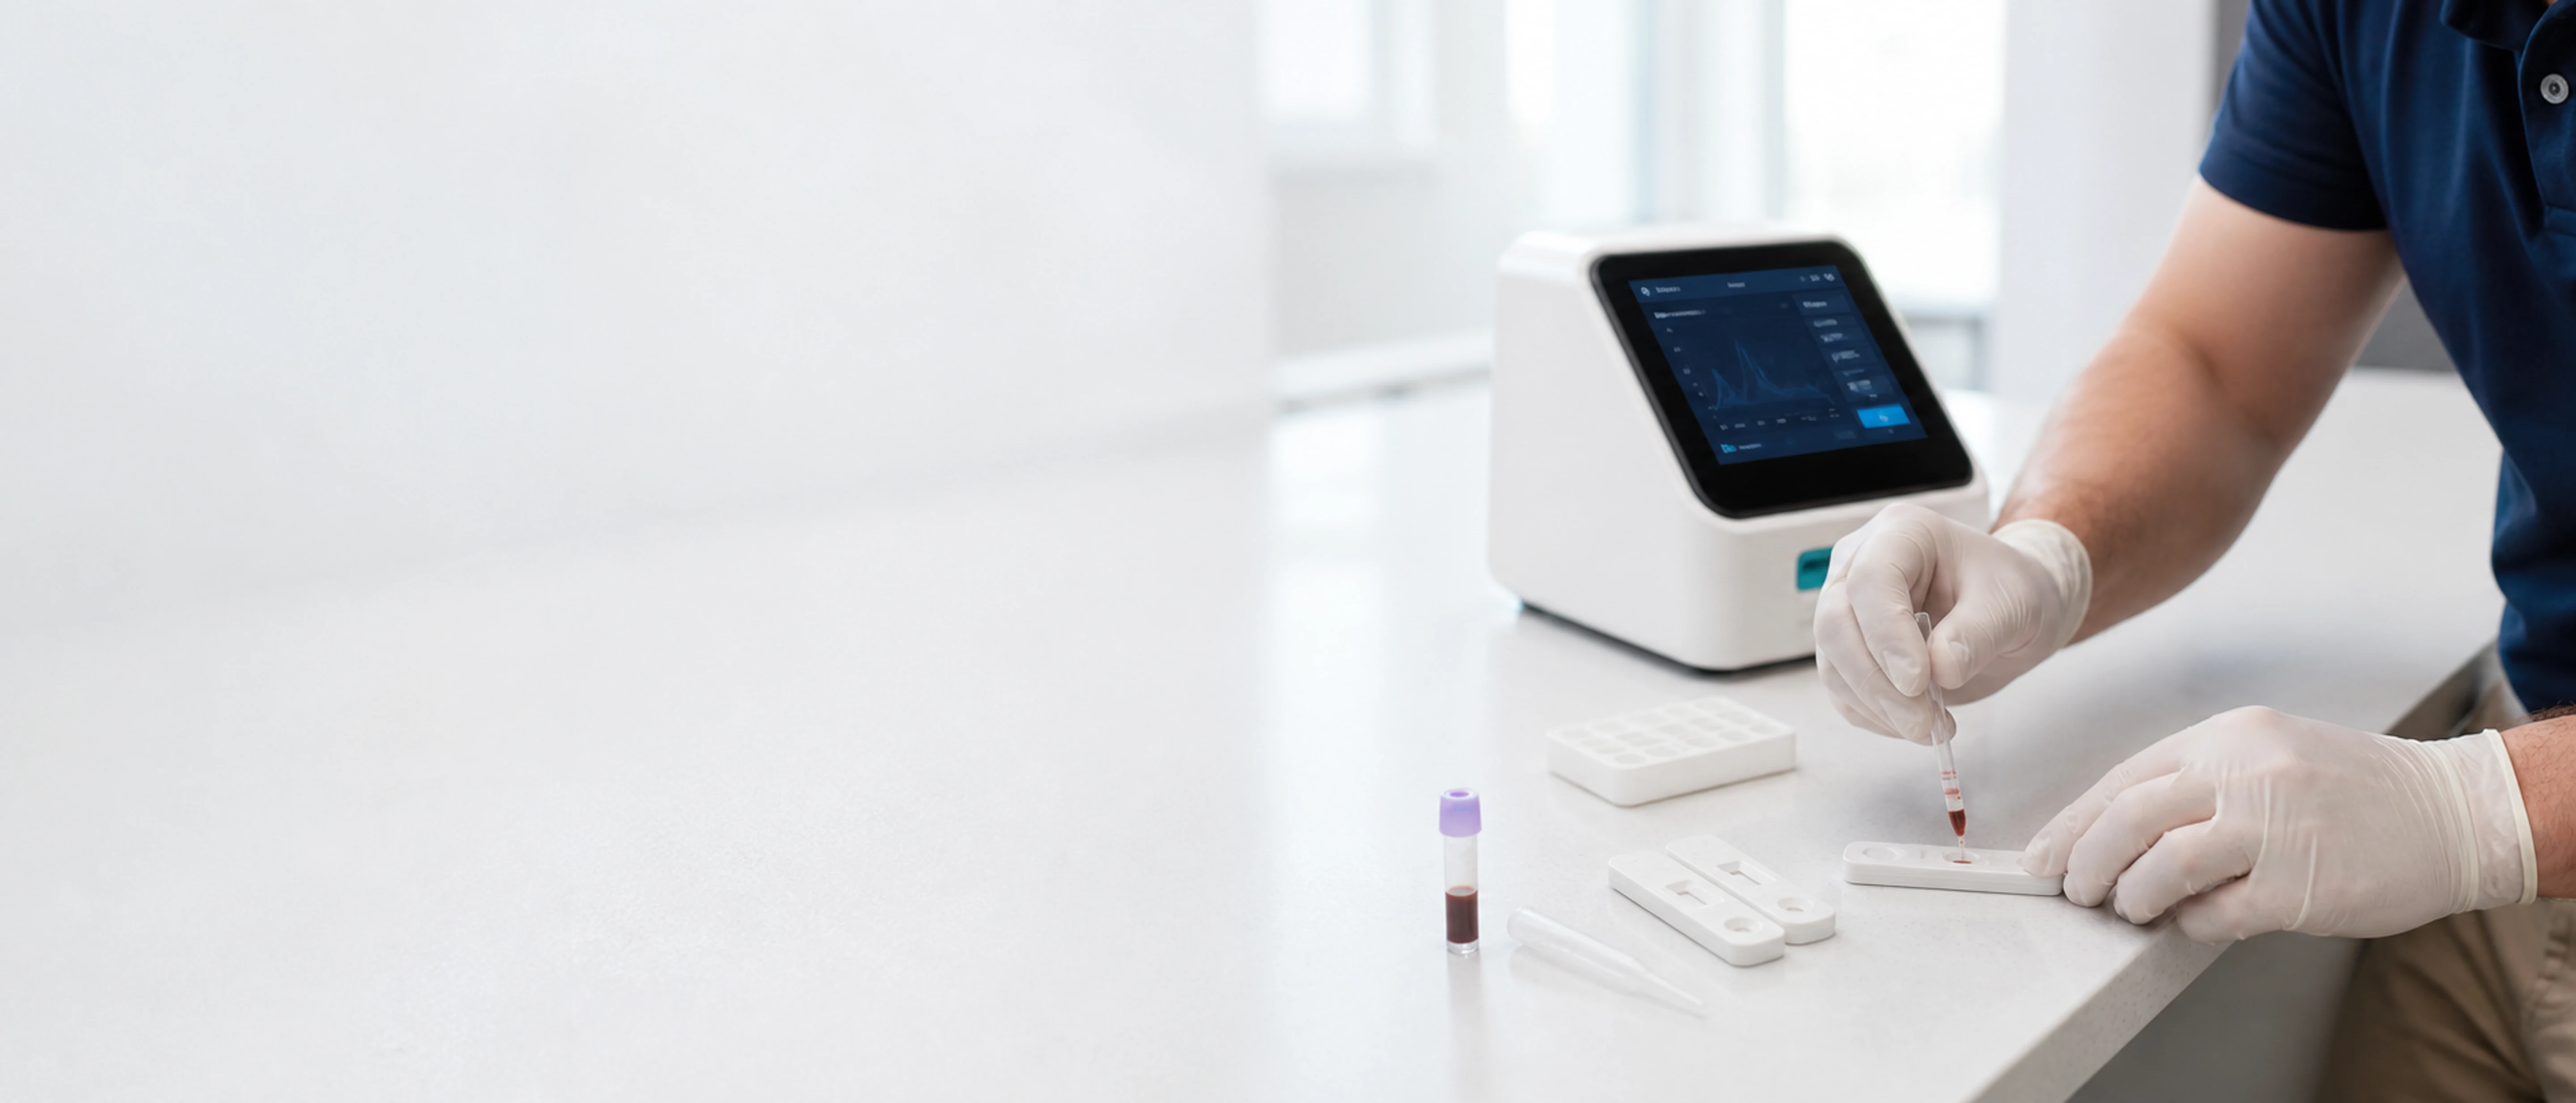
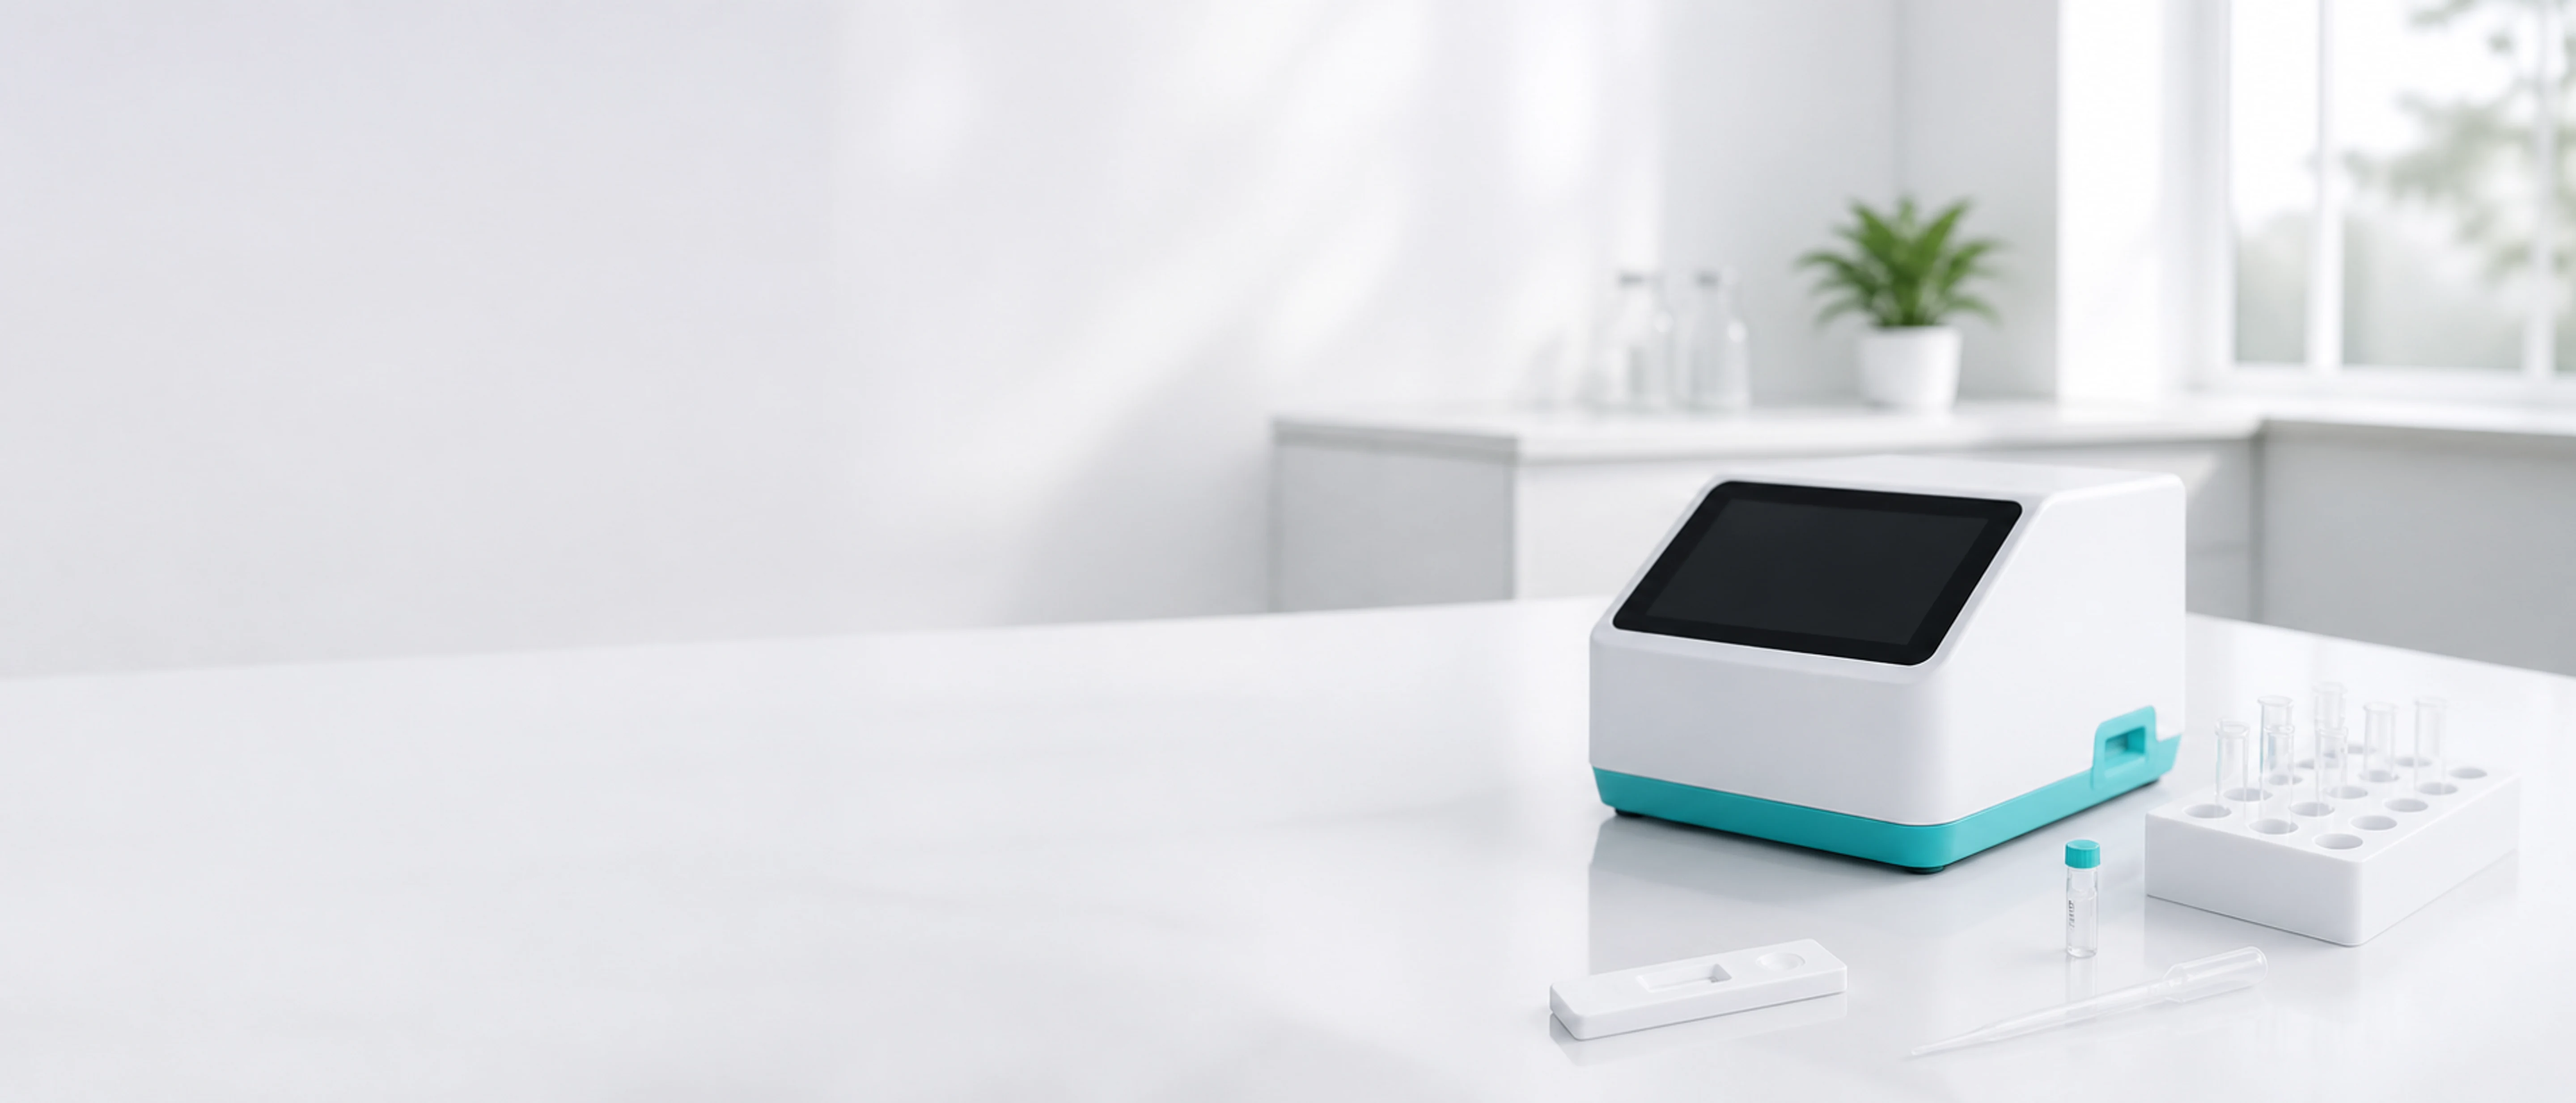
feat: regenerate site imagery and align the about hero alt text
Refreshed the card, hero, team and support photography, and updated the
about hero alt text to describe what the new image actually shows.

diff --git a/components/sections/AboutSection.tsx b/components/sections/AboutSection.tsx
@@ -50,7 +50,7 @@ export function AboutSection() {
         </div>
         <div className="editorial-container">
           <div className="about-hero__banner">
-            <Image src="/images/team-about-hero.webp" alt="The Nabuk team in their Malta warehouse" fill priority sizes="100vw" />
+            <Image src="/images/team-about-hero.webp" alt="Shelves of veterinary equipment in the Nabuk warehouse in Malta" fill priority sizes="100vw" />
             <ol className="about-hero__timeline" aria-label="Milestones">
               <li><b>1996</b><span>Founded in Malta</span></li>
               <li><b>2001</b><span>Education &amp; seminars</span></li>
